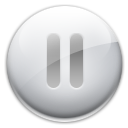
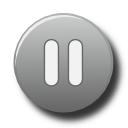
rework with new button images and half-second delay before display of hover - issue #84

diff --git a/coverart_covericonview.py b/coverart_covericonview.py
@@ -235,6 +235,8 @@ class CoverIconView(EnhancedIconView, AbstractView):
         self.view = self
         self._has_initialised = False
         self._last_play_path = None
+        self._recheck_in_progress = False
+        self._current_hover_path = None
         #self.props.cell_area = AlbumArtCellArea() # this works in Saucy but not in 12.04 - define in the super above
         
     def initialise(self, source):
@@ -440,19 +442,22 @@ class CoverIconView(EnhancedIconView, AbstractView):
         else:
             widget.stop_emission('drag-begin')
             
-    def _cover_play_hotspot(self, cursor_x, cursor_y, path):
+    def _cover_play_hotspot(self, cursor_x, cursor_y, path, in_vacinity=False):
         if path and hasattr(self, "get_cell_rect"):
             # get_cell_rect only exists in Gtk+3.6 and later
             valid, rect = self.get_cell_rect(path, None)
             
             c_x = cursor_x - rect.x
             c_y = cursor_y - rect.y
-            
-            if  c_x < PLAY_SIZE_X and \
-                c_y < PLAY_SIZE_Y and \
+
+            sizing = (rect.width / 2) if in_vacinity else 0
+            if  c_x < (PLAY_SIZE_X + sizing) and \
+                c_y < (PLAY_SIZE_Y + sizing) and \
                 c_x > (self.icon_padding + self.icon_spacing) and \
                 c_y > (self.icon_padding + self.icon_spacing):
-                
+
+                print c_x
+                print c_y
                 return True
                 
         return False
@@ -471,13 +476,35 @@ class CoverIconView(EnhancedIconView, AbstractView):
         else:
             icon = 'button_play'
             
-        if self._cover_play_hotspot(event.x, event.y, path):
-            icon = icon + '_hover'
-            
-        hover = self.hover_pixbufs[icon]
-            
-        self.props.cell_area.hover_pixbuf = hover
+        def recheck_hotspot(path):        
+            if self._cover_play_hotspot(event.x, event.y, path, in_vacinity=True):
+                current_path = self.get_path_at_pos(event.x, event.y)
+                if current_path == path:
+                    self._current_hover_path = path
+                    
+            else:
+                self._current_hover_path = None
+                
+            self._recheck_in_progress = False
         
+        if self._cover_play_hotspot(event.x, event.y, path, in_vacinity=True):
+            if path == self._current_hover_path:
+                if self._cover_play_hotspot(event.x, event.y, path):
+                    icon = icon + '_hover'
+                        
+                hover = self.hover_pixbufs[icon]
+            else:
+                hover = None
+                if not self._recheck_in_progress:
+                    self._recheck_in_progress = True
+                    Gdk.threads_add_timeout(GLib.PRIORITY_DEFAULT_IDLE, 500,
+                                recheck_hotspot, path)
+        else:
+            hover = None
+                    
+        self.props.cell_area.hover_pixbuf = hover
+    
+            
     def item_clicked_callback(self, iconview, event, path):
         '''
         Callback called when the user clicks somewhere on the cover_view.
